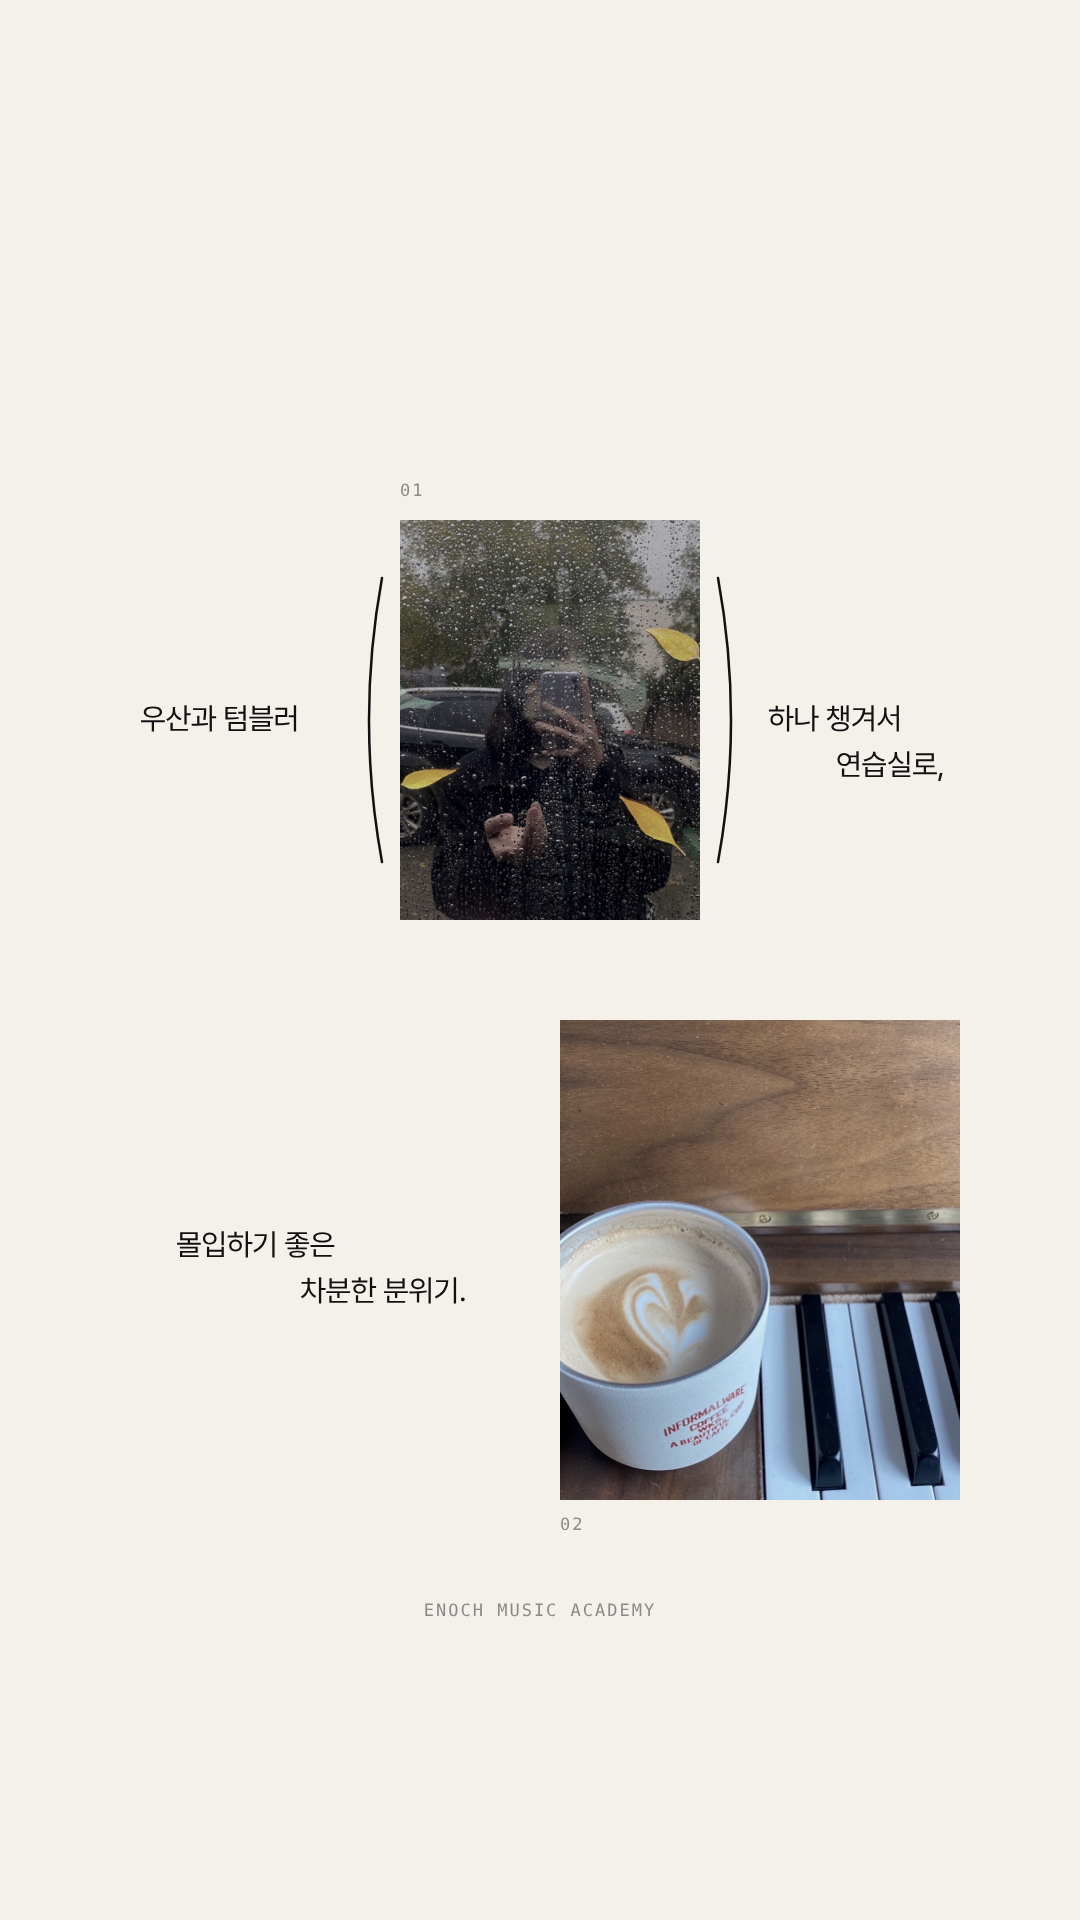
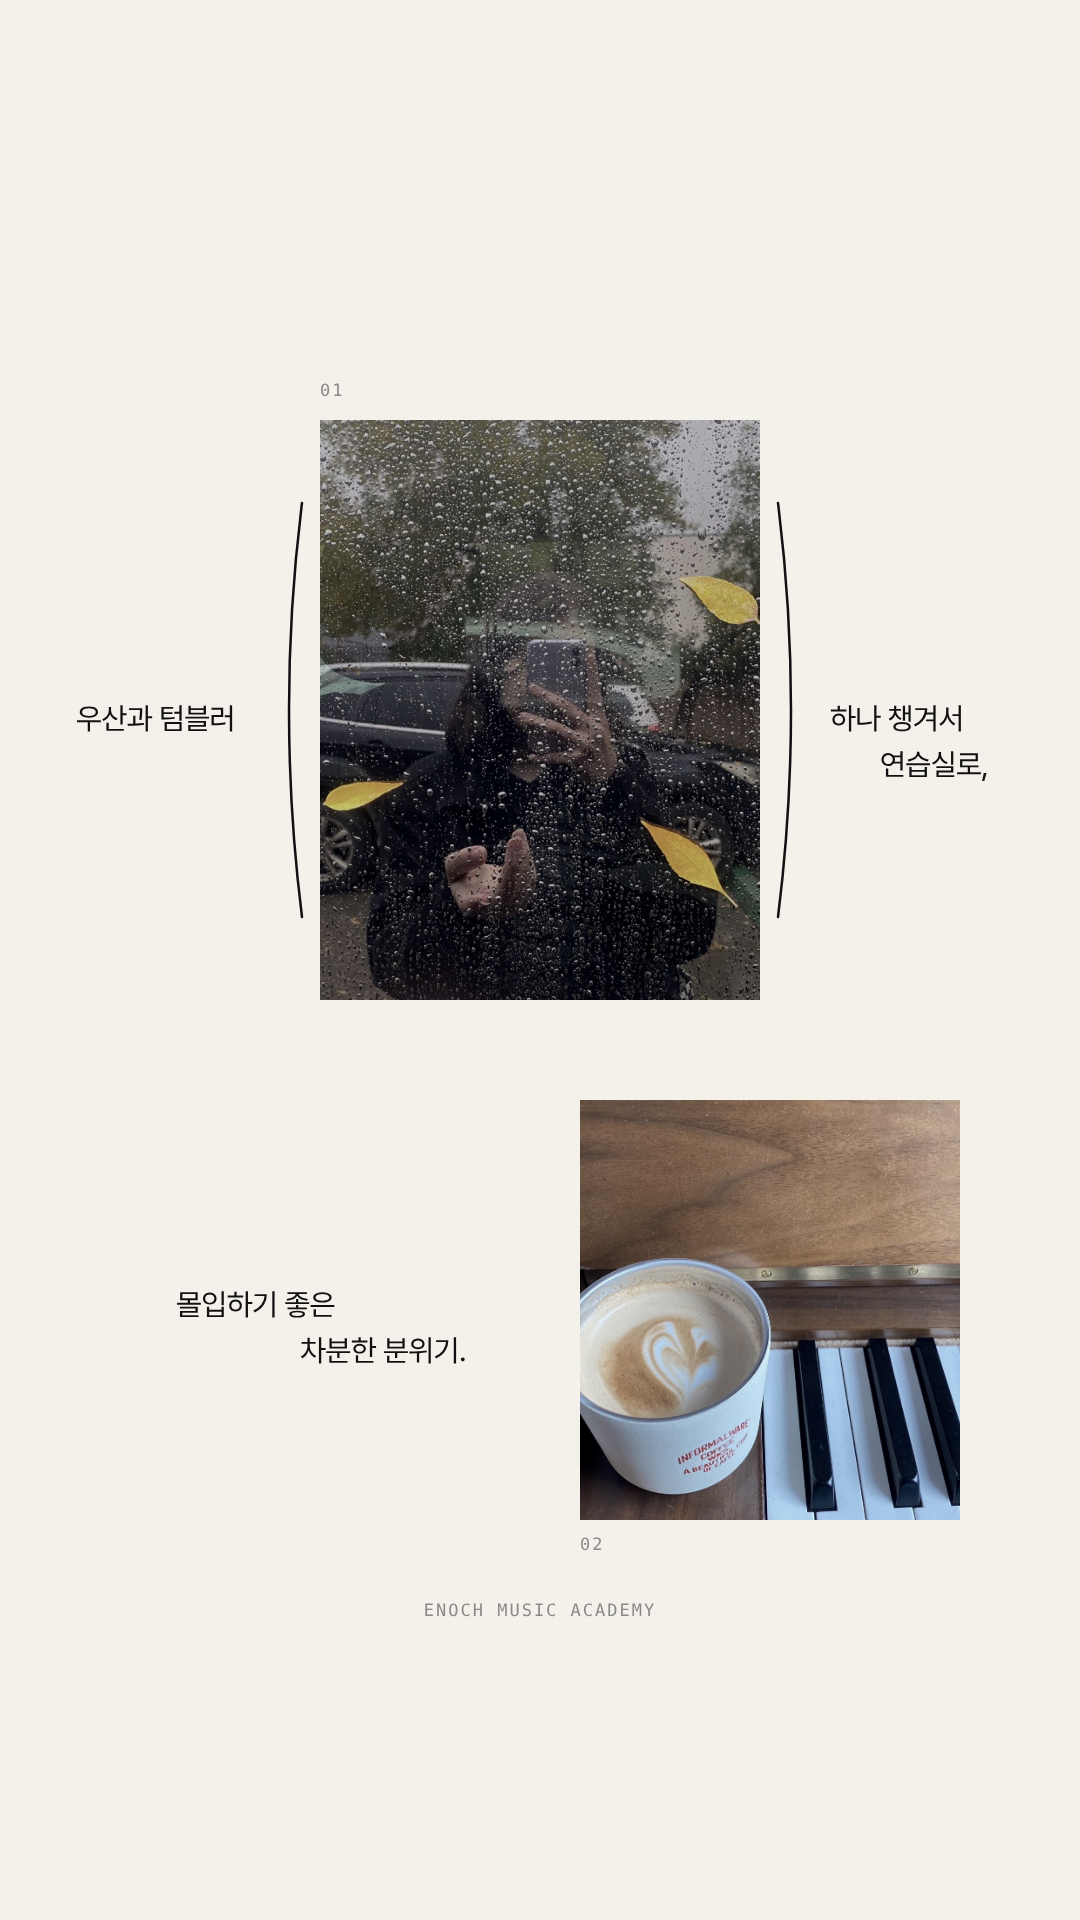
스토리 비 오는 날 1장: 첫 사진 크게
Claude-Session: https://claude.ai/code/session_01HGbZvgMeYrbU7mY8bwfjyb

Changed region(s): [[0.1222, 0.2188, 0.8861, 0.8125], [0.1528, 0.625, 0.4278, 0.7188], [0.7639, 0.3438, 0.9167, 0.4062]]

diff --git a/output/릴스_비오는날/stories.html b/output/릴스_비오는날/stories.html
@@ -14,4 +14,4 @@ section>div{position:absolute}
 .pr{position:absolute;overflow:visible}
 .pr path{fill:none;stroke:#111;stroke-width:2.5;stroke-linecap:round}
 .ft{left:0;right:0;top:1600px;text-align:center;font-size:17px;color:#8A8A8A}
-</style></head><body><section data-name="story_01"><div class="t " style="left:140px;top:700px">우산과 텀블러</div><div class="lab mono" style="left:400px;top:480px">01</div><div class="ph" style="left:400px;top:520px;width:300px;height:400px"><img src="src/rain.jpg" style="object-position:50% 35%"></div><svg class="pr" style="left:354px;top:576px" width="30" height="288"><path d="M28 2 Q 2 144.0 28 286"/></svg><svg class="pr" style="left:716px;top:576px" width="30" height="288"><path d="M2 2 Q 28 144.0 2 286"/></svg><div class="t " style="left:768px;top:700px">하나 챙겨서</div><div class="t " style="left:836px;top:746px">연습실로,</div><div class="t " style="left:176px;top:1226px">몰입하기 좋은</div><div class="t " style="left:300px;top:1272px">차분한 분위기.</div><div class="lab mono" style="left:560px;top:1514px">02</div><div class="ph" style="left:560px;top:1020px;width:400px;height:480px"><img src="src/coffee.jpg" style="object-position:22% 50%"></div><div class="ft mono">ENOCH MUSIC ACADEMY</div></section><section data-name="story_02"><div class="t b" style="left:176px;top:676px">오늘 같은 날,</div><div class="lab mono" style="left:400px;top:460px">03</div><div class="ph" style="left:400px;top:500px;width:300px;height:380px"><img src="src/stage.jpg" style="object-position:50% 40%"></div><div class="t b" style="left:732px;top:652px">내 목소리에</div><div class="t b" style="left:732px;top:698px">집중하기 좋은 이유.</div><div class="t " style="left:176px;top:1196px">덜 건조한 목,</div><div class="t " style="left:236px;top:1242px">편하게 나오는 소리.</div><div class="lab mono" style="left:620px;top:1454px">04</div><div class="ph" style="left:620px;top:1000px;width:340px;height:440px"><img src="src/plant.jpg" style="object-position:22% 50%"></div><div class="ft mono">ENOCH MUSIC ACADEMY</div></section></body></html>
+</style></head><body><section data-name="story_01"><div class="t " style="left:76px;top:700px">우산과 텀블러</div><div class="lab mono" style="left:320px;top:380px">01</div><div class="ph" style="left:320px;top:420px;width:440px;height:580px"><img src="src/rain.jpg" style="object-position:50% 35%"></div><svg class="pr" style="left:274px;top:501px" width="30" height="418"><path d="M28 2 Q 2 209.0 28 416"/></svg><svg class="pr" style="left:776px;top:501px" width="30" height="418"><path d="M2 2 Q 28 209.0 2 416"/></svg><div class="t " style="left:830px;top:700px">하나 챙겨서</div><div class="t " style="left:880px;top:746px">연습실로,</div><div class="t " style="left:176px;top:1286px">몰입하기 좋은</div><div class="t " style="left:300px;top:1332px">차분한 분위기.</div><div class="lab mono" style="left:580px;top:1534px">02</div><div class="ph" style="left:580px;top:1100px;width:380px;height:420px"><img src="src/coffee.jpg" style="object-position:22% 50%"></div><div class="ft mono">ENOCH MUSIC ACADEMY</div></section><section data-name="story_02"><div class="t b" style="left:176px;top:676px">오늘 같은 날,</div><div class="lab mono" style="left:400px;top:460px">03</div><div class="ph" style="left:400px;top:500px;width:300px;height:380px"><img src="src/stage.jpg" style="object-position:50% 40%"></div><div class="t b" style="left:732px;top:652px">내 목소리에</div><div class="t b" style="left:732px;top:698px">집중하기 좋은 이유.</div><div class="t " style="left:176px;top:1196px">덜 건조한 목,</div><div class="t " style="left:236px;top:1242px">편하게 나오는 소리.</div><div class="lab mono" style="left:620px;top:1454px">04</div><div class="ph" style="left:620px;top:1000px;width:340px;height:440px"><img src="src/plant.jpg" style="object-position:22% 50%"></div><div class="ft mono">ENOCH MUSIC ACADEMY</div></section></body></html>

diff --git a/output/릴스_비오는날/stories.py b/output/릴스_비오는날/stories.py
@@ -26,8 +26,8 @@ FOOT = '<div class="ft mono">ENOCH MUSIC ACADEMY</div>'
 d = 36
 S = [
     # 1: 우산과 텀블러 ( 비 오는 창문 ) 하나 챙겨서 / 연습실로, — 몰입하기 좋은 / 차분한 분위기. (피아노 위 텀블러)
-    t('우산과 텀블러', 176 - d, 700) + photo(1, 'rain', 400, 520, 300, 400, '50% 35%', paren=True) + t('하나 챙겨서', 732 + d, 700) + t('연습실로,', 800 + d, 746)
-    + t('몰입하기 좋은', 176, 1226) + t('차분한 분위기.', 300, 1272) + photo(2, 'coffee', 560, 1020, 400, 480, '22% 50%', below=True) + FOOT,
+    t('우산과 텀블러', 76, 700) + photo(1, 'rain', 320, 420, 440, 580, '50% 35%', paren=True) + t('하나 챙겨서', 830, 700) + t('연습실로,', 880, 746)
+    + t('몰입하기 좋은', 176, 1286) + t('차분한 분위기.', 300, 1332) + photo(2, 'coffee', 580, 1100, 380, 420, '22% 50%', below=True) + FOOT,
     # 2: 오늘 같은 날, (무대) 내 목소리에 / 집중하기 좋은 이유. — 덜 건조한 목, / 편하게 나오는 소리. (창가 식물)  [명사형 끝맺음]
     t('오늘 같은 날,', 176, 676, 'b') + photo(3, 'stage', 400, 500, 300, 380, '50% 40%') + t('내 목소리에', 732, 652, 'b') + t('집중하기 좋은 이유.', 732, 698, 'b')
     + t('덜 건조한 목,', 176, 1196) + t('편하게 나오는 소리.', 236, 1242) + photo(4, 'plant', 620, 1000, 340, 440, '22% 50%', below=True)
